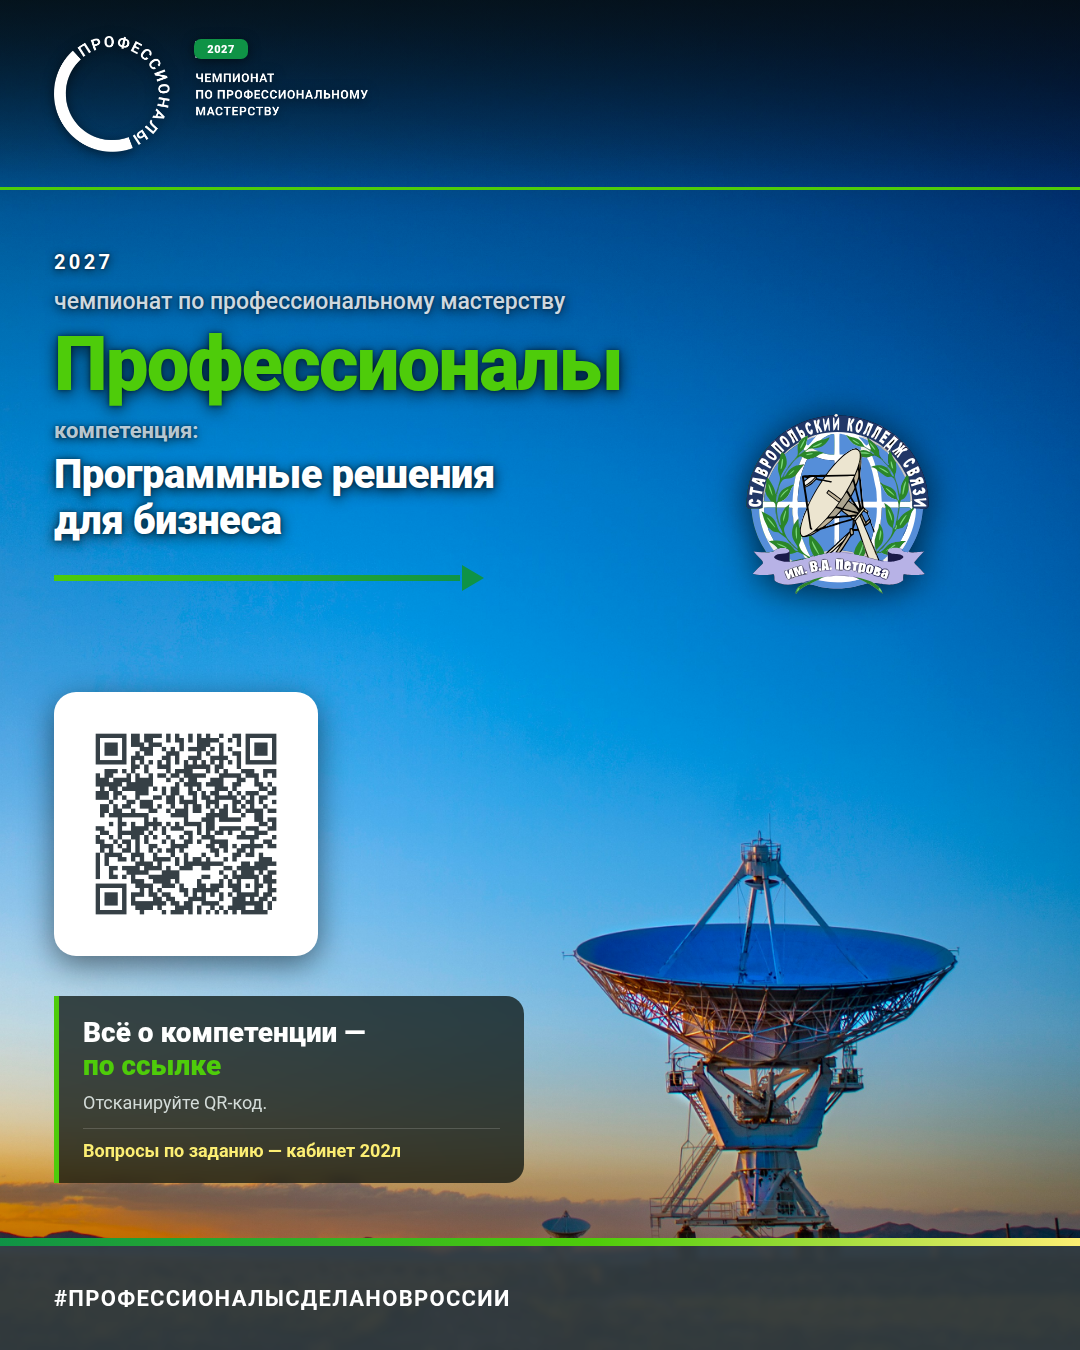
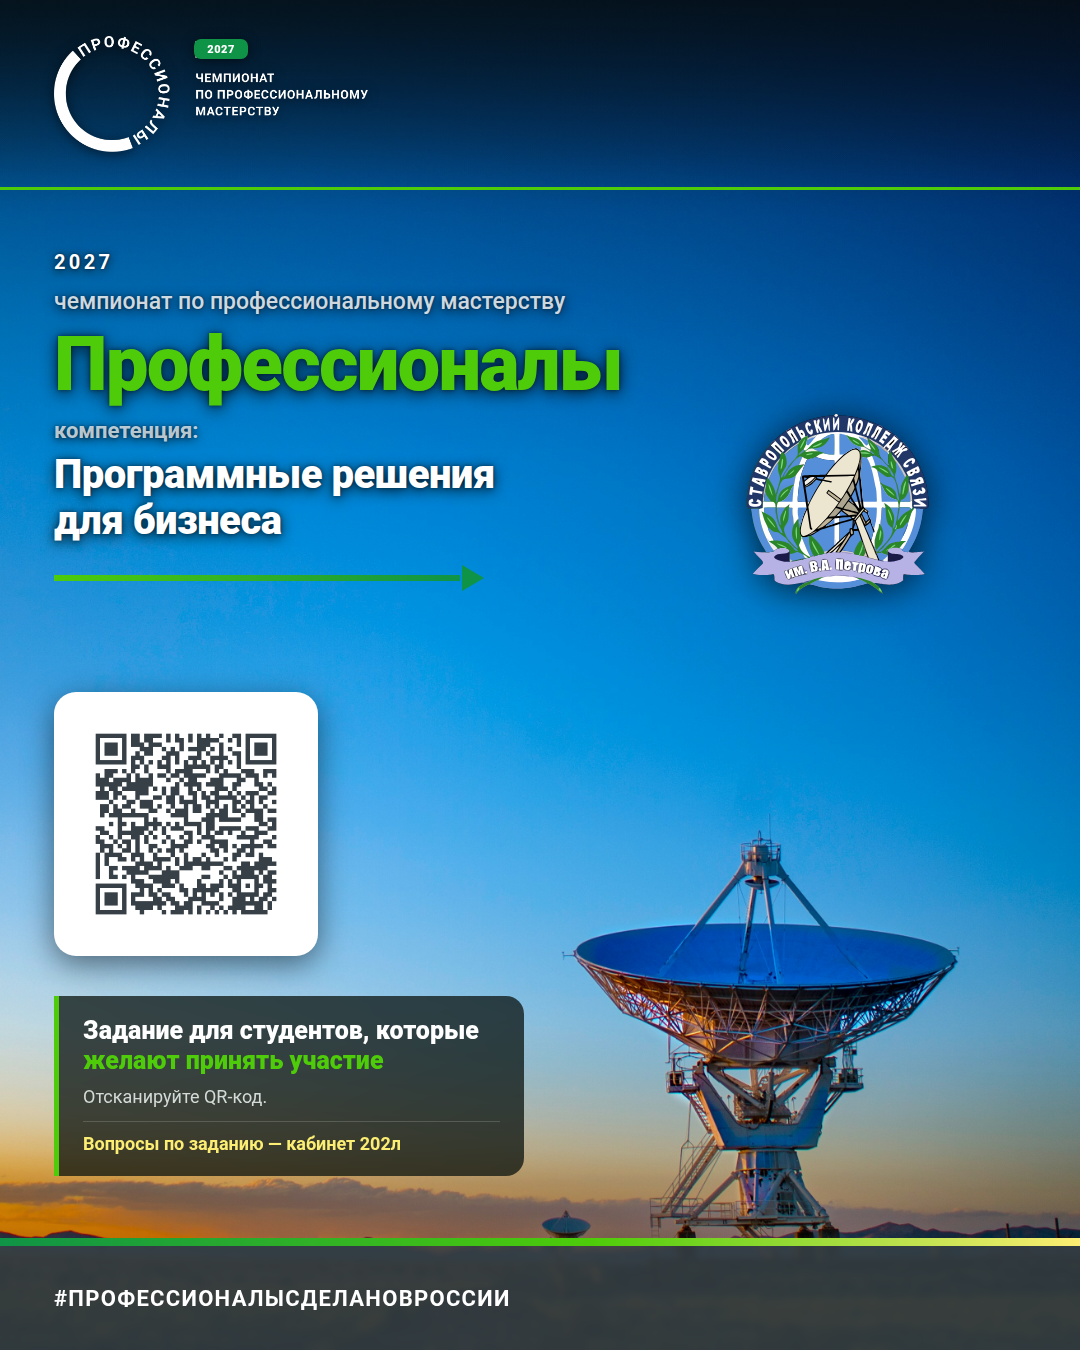
feat(poster): «Задание для студентов, которые желают принять участие» вместо «Всё о компетенции»

Changed region(s): [[0.0611, 0.7467, 0.4889, 0.9022]]

diff --git a/post/poster.html b/post/poster.html
@@ -178,7 +178,7 @@
     border-radius: 0 18px 18px 0;
     padding: 20px 24px 22px;
   }
-  .textblock h3 { font-size: 28px; font-weight: 900; line-height: 1.18; color: var(--white); white-space: nowrap; }
+  .textblock h3 { font-size: 25px; font-weight: 900; line-height: 1.2; color: var(--white); }
   .textblock h3 em { font-style: normal; color: var(--green-lite); }
   .textblock p { margin-top: 9px; font-size: 18px; line-height: 1.36; font-weight: 400; color: #D3DBD8; }
   .textblock .contact {
@@ -262,7 +262,7 @@
   </div>
 
   <div class="textblock">
-    <h3>Всё о компетенции —<br><em>по ссылке</em></h3>
+    <h3>Задание для студентов, которые<br><em>желают принять участие</em></h3>
     <p>Отсканируйте QR-код.</p>
     <div class="contact">Вопросы по заданию — кабинет 202л</div>
   </div>

diff --git a/post/poster-variant-a.html b/post/poster-variant-a.html
@@ -156,8 +156,7 @@
     border-radius: 0 18px 18px 0;
     padding: 26px 30px 28px;
   }
-  .textblock h3 { font-size: 34px; font-weight: 900; line-height: 1.16;
-    white-space: nowrap; }
+  .textblock h3 { font-size: 32px; font-weight: 900; line-height: 1.2; }
   .textblock h3 em { font-style: normal; color: var(--green); }
   .textblock p { margin-top: 12px; font-size: 21px; line-height: 1.38; font-weight: 400; color: #D6D9D7; }
   .textblock .contact {
@@ -217,7 +216,7 @@
   </div>
 
   <div class="textblock">
-    <h3>Всё о компетенции — <em>по ссылке</em></h3>
+    <h3>Задание для студентов, которые<br><em>желают принять участие</em></h3>
     <p>Отсканируйте QR-код.</p>
     <div class="contact">Вопросы по заданию — кабинет 202л</div>
   </div>
